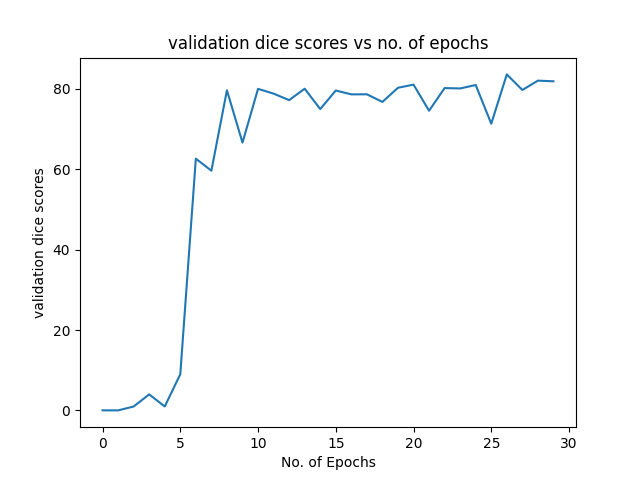
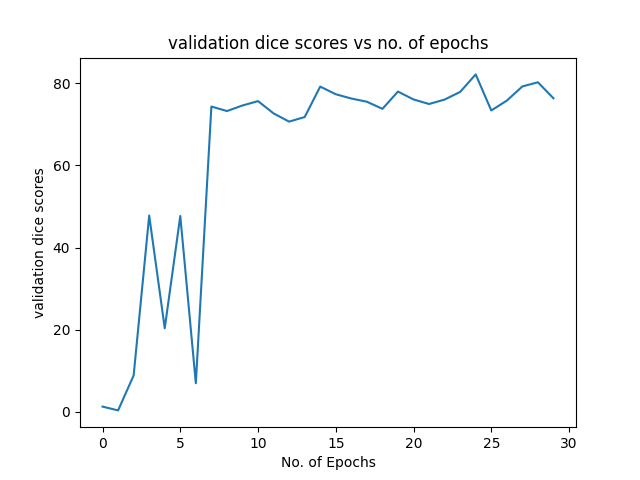
optimize the code

diff --git a/train.py b/train.py
@@ -69,7 +69,7 @@ def main():
     model = UNET(in_channels=3, out_channels=1)
     model.to(device=DEVICE)
     loss_fn = nn.BCEWithLogitsLoss()
-    optimizer = optim.Adam(model.parameters(), lr=LEARNING_RATE, weight_decay=1e-7)
+    optimizer = optim.Adam(model.parameters(), lr=LEARNING_RATE)
 
     print("Training started ::: **************** ")
     for epoch in range(NUM_EPOCHS):
